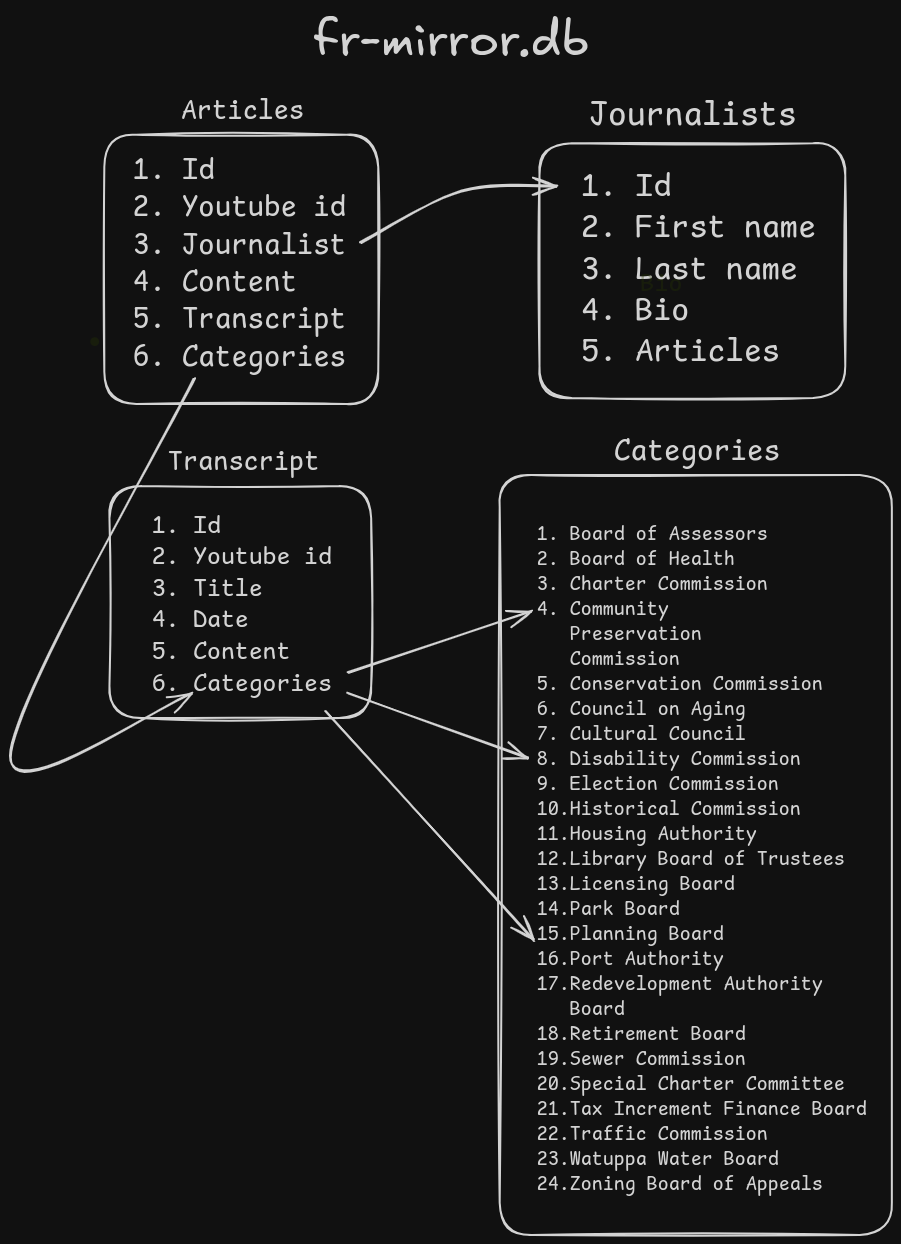
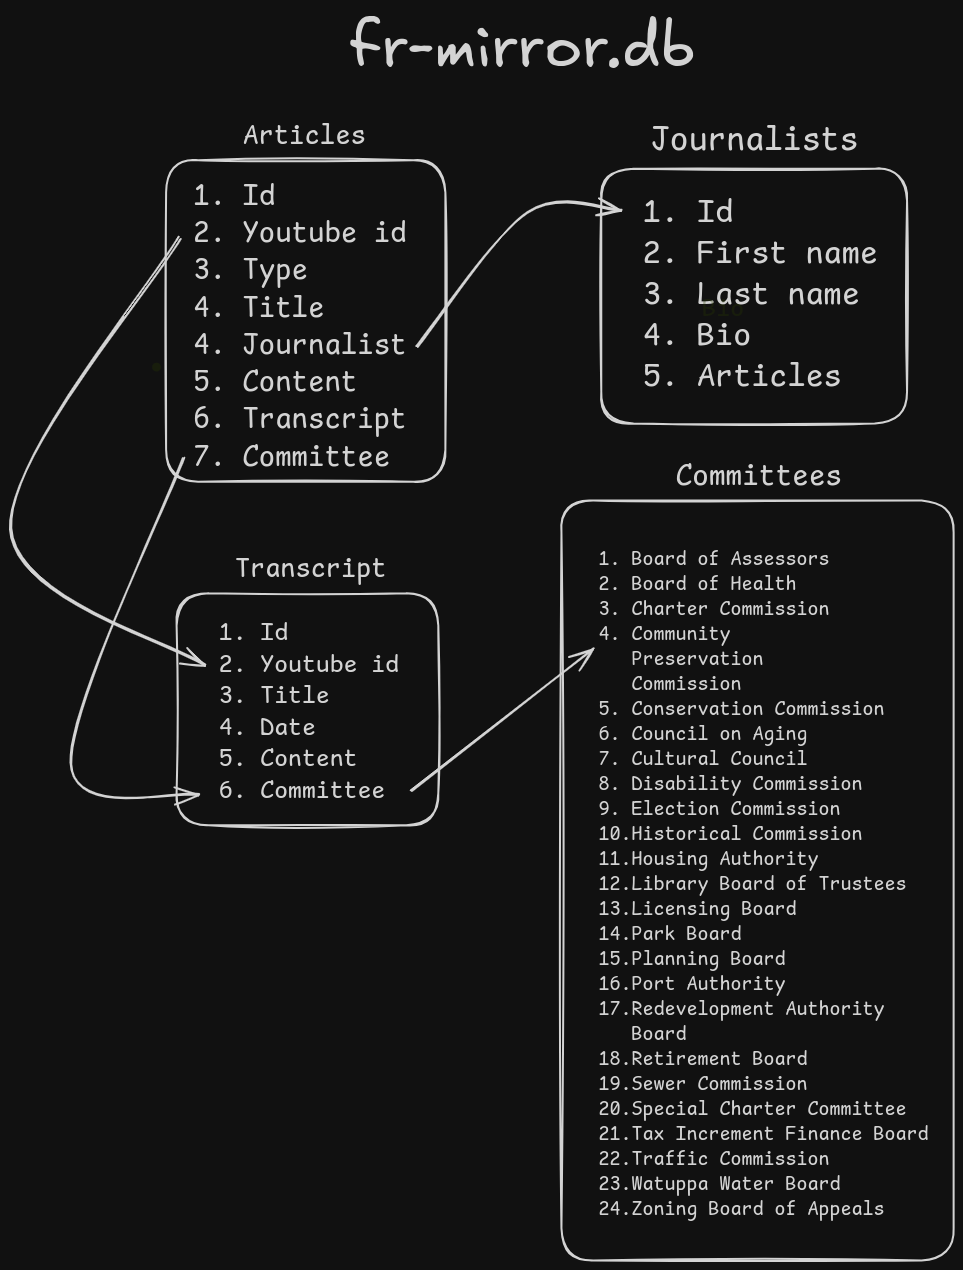
Added CRUD operations to the Database object and also added documentation

diff --git a/app/database.py b/app/database.py
@@ -1,31 +1,191 @@
 import sqlite3
+from typing import List, Tuple, Optional, Union
 
 class Database:
-    def __init__(self, db_name):
-        """Initialize database. Creates database and tables if they don't exist."""
-        self.db_path = db_name + ".db"
-        self.conn = sqlite3.connect(self.db_path)
-        self.cursor = self.conn.cursor()
+    """
+    Database management class for handling SQLite operations.
+    
+    This class provides CRUD (Create, Read, Update, Delete) operations for:
+    - Committees: Government committees and boards
+    - Journalists: News reporters and writers
+    - Transcripts: Meeting transcripts and records
+    - Articles: News articles and content
+    
+    The database uses foreign key relationships to maintain data integrity
+    and prevent orphaned records.
+    """
+    
+    def __init__(self, db_name: str) -> None:
+        """
+        Initialize database connection and create tables if they don't exist.
+        
+        Args:
+            db_name: Name of the database file (without .db extension)
+        """
+        self.db_path: str = db_name + ".db"
+        self.conn: sqlite3.Connection = sqlite3.connect(self.db_path)
+        self.cursor: sqlite3.Cursor = self.conn.cursor()
         self._create_all_tables()   
 
-    def _create_table(self, table_name, columns):
+    def _create_table(self, table_name: str, columns: str) -> None:
+        """
+        Create a table if it doesn't exist.
+        
+        Args:
+            table_name: Name of the table to create
+            columns: SQL column definitions
+        """
         self.cursor.execute(f"CREATE TABLE IF NOT EXISTS {table_name} ({columns})")
         self.conn.commit()
 
-    def _create_all_tables(self):
-        """Create all required tables for the application"""
-        self.create_table("transcripts", "id INTEGER PRIMARY KEY AUTOINCREMENT, title TEXT, content TEXT, date TEXT, category TEXT")
-        self.create_table("journalists", "id INTEGER PRIMARY KEY AUTOINCREMENT, first_name TEXT, last_name TEXT, organization TEXT, bio TEXT, articles TEXT")
-        self.create_table("articles", 
+    def _create_all_tables(self) -> None:
+        """
+        Create all required tables for the application.
+        
+        Tables created:
+        - committees: Government committees and boards
+        - journalists: News reporters and writers  
+        - transcripts: Meeting transcripts and records
+        - articles: News articles with foreign key relationships
+        """
+        # Transcripts table - stores meeting transcripts with committee reference
+        self._create_table("transcripts", 
             "id INTEGER PRIMARY KEY AUTOINCREMENT, "
-            "journalist_id INTEGER, "
-            "content TEXT, "
-            "transcript_id INTEGER, "
-            "date TEXT, "
-            "category TEXT, "
+            "committee TEXT, "  # Committee name as text
+            "title TEXT, "      # Transcript title
+            "content TEXT, "    # Full transcript content
+            "date TEXT, "       # Meeting date
+            "category TEXT")    # Transcript category
+        
+        # Journalists table - stores reporter information
+        self._create_table("journalists", 
+            "id INTEGER PRIMARY KEY AUTOINCREMENT, "
+            "first_name TEXT, "     # Journalist's first name
+            "last_name TEXT, "      # Journalist's last name
+            "organization TEXT, "   # News organization
+            "bio TEXT, "           # Journalist biography
+            "articles TEXT")       # List of articles (could be JSON)
+        
+        # Articles table - stores news articles with foreign key relationships
+        self._create_table("articles", 
+            "id INTEGER PRIMARY KEY AUTOINCREMENT, "
+            "committee_id INTEGER, "    # Foreign key to committees table
+            "youtube_id TEXT, "        # YouTube video ID
+            "journalist_id INTEGER, "  # Foreign key to journalists table
+            "content TEXT, "           # Article content
+            "transcript_id INTEGER, "  # Foreign key to transcripts table
+            "date TEXT, "              # Article publication date
+            "category TEXT, "          # Article category
+            "FOREIGN KEY(committee_id) REFERENCES committees(id), "
             "FOREIGN KEY(journalist_id) REFERENCES journalists(id), "
             "FOREIGN KEY(transcript_id) REFERENCES transcripts(id)")
+        
+        # Committees table - stores government committees
+        self._create_table("committees", 
+            "id INTEGER PRIMARY KEY AUTOINCREMENT, "
+            "name TEXT NOT NULL, "     # Committee name (required)
+            "description TEXT, "       # Committee description
+            "created_date TEXT")       # When committee was established
+    
+    def add_transcript(self, committee: str, title: str, content: str, date: str, category: str) -> None:
+        """
+        Add a new transcript to the database.
+        
+        Args:
+            committee: Name of the committee
+            title: Title of the transcript
+            content: Full transcript content
+            date: Date of the meeting
+            category: Category of the transcript
+        """
+        self.cursor.execute(
+            "INSERT INTO transcripts (committee, title, content, date, category) VALUES (?, ?, ?, ?, ?)", 
+            (committee, title, content, date, category)
+        )
+        self.conn.commit()
 
+    def add_journalist(self, first_name: str, last_name: str, organization: Optional[str], bio: Optional[str], articles: Optional[str]) -> None:
+        """
+        Add a new journalist to the database.
+        
+        Args:
+            first_name: Journalist's first name
+            last_name: Journalist's last name
+            organization: News organization (optional)
+            bio: Journalist biography (optional)
+            articles: List of articles as JSON string (optional)
+        """
+        self.cursor.execute(
+            "INSERT INTO journalists (first_name, last_name, organization, bio, articles) VALUES (?, ?, ?, ?, ?)", 
+            (first_name, last_name, organization, bio, articles)
+        )
+        self.conn.commit()
+
+    def add_article(self, committee_id: int, youtube_id: str, journalist_id: int, content: str, transcript_id: int, date: str, category: Optional[str]) -> None: 
+        """
+        Add a new article to the database.
+        
+        Note: This method uses foreign key relationships, so all referenced IDs
+        must exist in their respective tables.
+        
+        Args:
+            committee_id: ID of the committee (from committees table)
+            youtube_id: YouTube video ID
+            journalist_id: ID of the journalist (from journalists table)
+            content: Article content
+            transcript_id: ID of the transcript (from transcripts table)
+            date: Article publication date
+            category: Article category (optional)
+            
+        Raises:
+            sqlite3.IntegrityError: If any foreign key references don't exist
+        """
+        self.cursor.execute(
+            "INSERT INTO articles (committee_id, youtube_id, journalist_id, content, transcript_id, date, category) VALUES (?, ?, ?, ?, ?, ?, ?)", 
+            (committee_id, youtube_id, journalist_id, content, transcript_id, date, category)
+        )
+        self.conn.commit()
+
+    def add_committee(self, name: str, description: Optional[str], created_date: Optional[str]) -> None:
+        """
+        Add a new committee to the database.
+        
+        Args:
+            name: Name of the committee
+            description: Description of the committee (optional)
+            created_date: Date when committee was established (optional)
+        """
+        self.cursor.execute(
+            "INSERT INTO committees (name, description, created_date) VALUES (?, ?, ?)", 
+            (name, description, created_date)
+        )
+        self.conn.commit()
+
+    def get_transcripts(self) -> List[Tuple[Union[int, str]]]:
+        """
+        Retrieve all transcripts from the database.
+        
+        Returns:
+            List of tuples containing transcript data.
+            Each tuple contains: (id, committee, title, content, date, category)
+        """
+        self.cursor.execute("SELECT * FROM transcripts")
+        return self.cursor.fetchall()
     
+    def close(self) -> None:
+        """
+        Close the database connection.
+        
+        Call this method when you're done using the database to free up resources.
+        """
+        self.conn.close()
     
-    
+    def reconnect(self) -> None:
+        """
+        Reopen the database connection after it has been closed.
+        
+        This method creates a new connection to the same database file.
+        Useful when you need to close and reopen the connection.
+        """
+        self.conn = sqlite3.connect(self.db_path)
+        self.cursor = self.conn.cursor()
